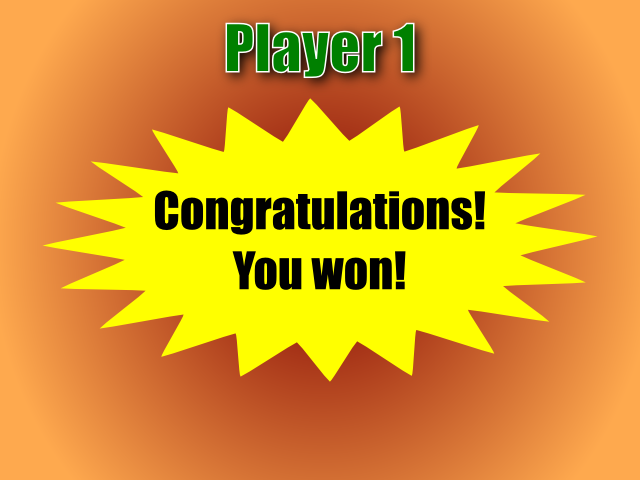
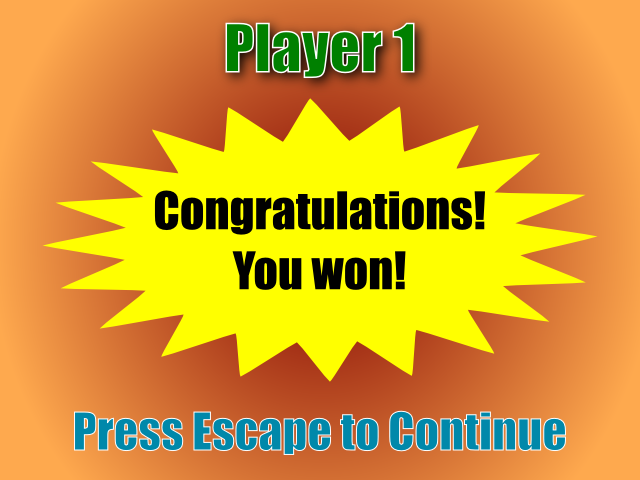
Victory screen now only responds to escape

Changed region(s): [[0.0938, 0.8438, 0.9062, 0.9688]]

diff --git a/src/VictoryScreen.cpp b/src/VictoryScreen.cpp
@@ -37,10 +37,7 @@ void VictoryScreen::HandleEvent(SDL_Event evt)
     {
         switch (evt.key.keysym.sym)
         {
-            case SDLK_SPACE:
-                done = true;
-                break;
-            case SDLK_RETURN:
+            case SDLK_ESCAPE:
                 done = true;
                 break;
             default:
